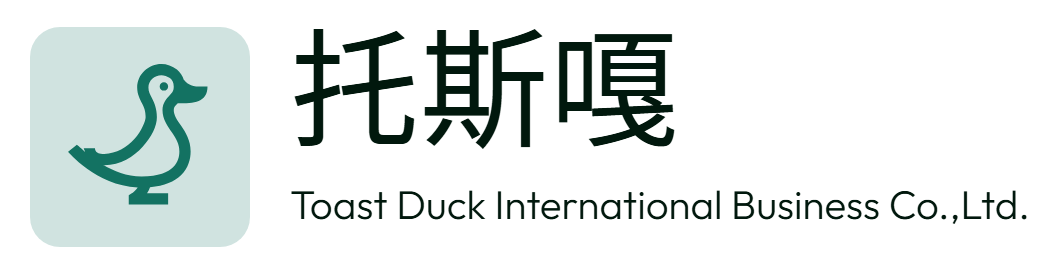
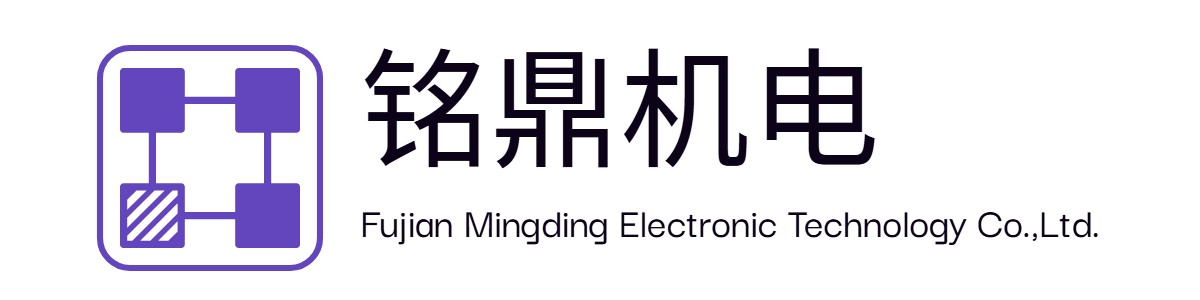
feature: change to mingding co.

diff --git a/src/components/Footer.jsx b/src/components/Footer.jsx
@@ -35,7 +35,7 @@ const Footer = () => {
               <a className="brand mb-6 inline-block" href="/">
                 <img 
                   src="/images/image.png" 
-                  alt="Toast Duck Logo" 
+                  alt="Mingding Logo" 
                   width="176" 
                   height="88"
                   className="max-h-[60px] w-auto brightness-0 invert"
@@ -45,11 +45,11 @@ const Footer = () => {
                   }}
                 />
                 <span className="hidden text-2xl font-bold text-white">
-                  Toast Duck
+                  Ming Ding
                 </span>
               </a>
               <p className="text-slate-300 mb-6 max-w-md leading-relaxed">
-                Toast Duck International Business Co., Ltd. is a professional international trading company 
+                Fujian Mingding Electromechanical Technology Co., Ltd. is a professional international trading company 
                 dedicated to delivering high-quality products and exceptional service to clients worldwide.
               </p>
               <div className="flex space-x-4">
@@ -118,8 +118,8 @@ const Footer = () => {
                   </svg>
                   <div>
                     <p className="text-slate-300 text-sm leading-relaxed">
-                      Room 906, No.6, Banzhong Road,<br />
-                      Fuzhou City, Fujian Province, China
+                      No.17, Fuchun Road, Fu'an City, Fujian
+                      Province, China
                     </p>
                   </div>
                 </div>
@@ -129,10 +129,29 @@ const Footer = () => {
                     <path strokeLinecap="round" strokeLinejoin="round" strokeWidth="2" d="M3 5a2 2 0 012-2h3.28a1 1 0 01.948.684l1.498 4.493a1 1 0 01-.502 1.21l-2.257 1.13a11.042 11.042 0 005.516 5.516l1.13-2.257a1 1 0 011.21-.502l4.493 1.498a1 1 0 01.684.949V19a2 2 0 01-2 2h-1C9.716 21 3 14.284 3 6V5z"/>
                   </svg>
                   <a 
-                    href="tel:+8613459831691"
                     className="text-slate-300 hover:text-white transition-colors duration-300 text-sm"
                   >
-                    (+86) 13459831691
+                    (+86) 13774774580
+                  </a>
+                </div>
+                <div className="flex items-center space-x-3">
+                  <svg className="w-5 h-5 text-blue-400 flex-shrink-0" fill="none" stroke="currentColor" viewBox="0 0 24 24">
+                    <path strokeLinecap="round" strokeLinejoin="round" strokeWidth="2" d="M3 5a2 2 0 012-2h3.28a1 1 0 01.948.684l1.498 4.493a1 1 0 01-.502 1.21l-2.257 1.13a11.042 11.042 0 005.516 5.516l1.13-2.257a1 1 0 011.21-.502l4.493 1.498a1 1 0 01.684.949V19a2 2 0 01-2 2h-1C9.716 21 3 14.284 3 6V5z"/>
+                  </svg>
+                  <a 
+                    className="text-slate-300 hover:text-white transition-colors duration-300 text-sm"
+                  >
+                    (+86) 15059331866
+                  </a>
+                </div>
+                <div className="flex items-center space-x-3">
+                  <svg className="w-5 h-5 text-blue-400 flex-shrink-0" fill="none" stroke="currentColor" viewBox="0 0 24 24">
+                    <path strokeLinecap="round" strokeLinejoin="round" strokeWidth="2" d="M3 5a2 2 0 012-2h3.28a1 1 0 01.948.684l1.498 4.493a1 1 0 01-.502 1.21l-2.257 1.13a11.042 11.042 0 005.516 5.516l1.13-2.257a1 1 0 011.21-.502l4.493 1.498a1 1 0 01.684.949V19a2 2 0 01-2 2h-1C9.716 21 3 14.284 3 6V5z"/>
+                  </svg>
+                  <a 
+                    className="text-slate-300 hover:text-white transition-colors duration-300 text-sm"
+                  >
+                    (+86) 15859511151
                   </a>
                 </div>
                 
@@ -141,10 +160,32 @@ const Footer = () => {
                     <path strokeLinecap="round" strokeLinejoin="round" strokeWidth="2" d="M3 8l7.89 4.26a2 2 0 002.22 0L21 8M5 19h14a2 2 0 002-2V7a2 2 0 00-2-2H5a2 2 0 00-2 2v10a2 2 0 002 2z"/>
                   </svg>
                   <a 
-                    href="mailto:ferrislee2024@163.com"
+                    href="mailto:mcmm20210811@gmail.com"
                     className="text-slate-300 hover:text-white transition-colors duration-300 text-sm"
                   >
-                    ferrislee2024@163.com
+                    mcmm20210811@gmail.com
+                  </a>
+                </div>
+                <div className="flex items-center space-x-3">
+                  <svg className="w-5 h-5 text-blue-400 flex-shrink-0" fill="none" stroke="currentColor" viewBox="0 0 24 24">
+                    <path strokeLinecap="round" strokeLinejoin="round" strokeWidth="2" d="M3 8l7.89 4.26a2 2 0 002.22 0L21 8M5 19h14a2 2 0 002-2V7a2 2 0 00-2-2H5a2 2 0 00-2 2v10a2 2 0 002 2z"/>
+                  </svg>
+                  <a 
+                    href="mailto:cnabbkobe@gmail.com"
+                    className="text-slate-300 hover:text-white transition-colors duration-300 text-sm"
+                  >
+                    cnabbkobe@gmail.com
+                  </a>
+                </div>
+                <div className="flex items-center space-x-3">
+                  <svg className="w-5 h-5 text-blue-400 flex-shrink-0" fill="none" stroke="currentColor" viewBox="0 0 24 24">
+                    <path strokeLinecap="round" strokeLinejoin="round" strokeWidth="2" d="M3 8l7.89 4.26a2 2 0 002.22 0L21 8M5 19h14a2 2 0 002-2V7a2 2 0 00-2-2H5a2 2 0 00-2 2v10a2 2 0 002 2z"/>
+                  </svg>
+                  <a 
+                    href="mailto:736354116@qq.com"
+                    className="text-slate-300 hover:text-white transition-colors duration-300 text-sm"
+                  >
+                    736354116@qq.com
                   </a>
                 </div>
               </div>
@@ -156,7 +197,7 @@ const Footer = () => {
         <div className="border-t border-slate-800 py-6">
           <div className="flex flex-col md:flex-row justify-between items-center space-y-4 md:space-y-0">
             <p className="text-slate-400 text-sm">
-              © {new Date().getFullYear()} Toast Duck International Business Co., Ltd. All rights reserved.
+              © {new Date().getFullYear()} Fujian Mingding Electromechanical Technology Co., Ltd. All rights reserved.
             </p>
             <div className="flex space-x-6">
               {quickLinks.map((link, index) => (

diff --git a/src/components/Contact.jsx b/src/components/Contact.jsx
@@ -101,7 +101,7 @@ const Contact = () => {
                   <dl class="list-terms-inline">
                     <dt>Address</dt>
                     <dd>
-                      Room 906, No.6, Banzhong Road, Fuzhou City, Fujian
+                      No.17, Fuchun Road, Fu'an City, Fujian
                       Province, China
                     </dd>
                   </dl>
@@ -111,7 +111,9 @@ const Contact = () => {
                     <dt>Whatsapp</dt>
                     <dd>
                       <ul class="list-semicolon">
-                        <li><a href="tel:#">(+86) 13459831691</a></li>
+                        <li><a>(+86) 13774774580</a></li>
+                        <li><a>(+86) 15059331866</a></li>
+                        <li><a>(+86) 15859511151</a></li>
                       </ul>
                     </dd>
                   </dl>
@@ -121,7 +123,9 @@ const Contact = () => {
                     <dt>E-mail</dt>
                     <dd>
                       <ul class="list-semicolon">
-                        <li><a href="tel:#">ferrislee2024@163.com</a></li>
+                        <li><a>mcmm20210811@gmail.com</a></li>
+                        <li><a>cnabbkobe@gmail.com</a></li>
+                        <li><a>736354116@qq.com</a></li>
                       </ul>
                     </dd>
                   </dl>
@@ -232,14 +236,14 @@ const Contact = () => {
       <section className="p-0">
         <div className="google-map-container">
           <iframe
-            src="https://www.google.com/maps/embed?pb=!1m14!1m12!1m3!1d2129.717374049382!2d119.32560030219558!3d26.139907931829057!2m3!1f0!2f0!3f0!3m2!1i1024!2i768!4f13.1!5e0!3m2!1szh-CN!2s!4v1752747089758!5m2!1szh-CN!2s"
+            src="https://www.google.com/maps/embed?pb=!1m16!1m12!1m3!1d1255.9572477409522!2d119.63289412518819!3d27.081199802559084!2m3!1f0!2f0!3f0!3m2!1i1024!2i768!4f13.1!2m1!1z56aP5a6J5biCIOmTrem8jg!5e0!3m2!1szh-CN!2shk!4v1757397436482!5m2!1szh-CN!2shk"
             width="100%"
             height="450"
             className="border-0 block"
             allowFullScreen=""
             loading="lazy"
             referrerPolicy="no-referrer-when-downgrade"
-            title="Toast Duck International Business Co., Ltd. Location"
+            title="Fujian Mingding Electromechanical Technology Co., Ltd. Location"
           ></iframe>
         </div>
       </section>

diff --git a/src/components/About.jsx b/src/components/About.jsx
@@ -30,14 +30,14 @@ const About = () => {
           <div className="col-md-9 col-lg-6">
             <h4 className="heading-decorated text-3xl font-bold">About us</h4>
             <p className="mt-4 leading-8">
-              Welcome to Toast Duck International Business Co., Ltd., a professional and reliable
+              Welcome to Mingding Electromechanical Technology Co., Ltd., a professional and reliable
               international trading company dedicated to delivering high-quality
               products and exceptional service to clients around the globe. With a
               strong foundation in global trade and a keen understanding of market
-              trends, Toast Duck has built long-term partnerships across various
+              trends, Mingding has built long-term partnerships across various
               industries. Our commitment to integrity, efficiency, and customer
               satisfaction sets us apart in today's competitive global marketplace.
-              Choose Toast Duck — your trusted partner in international trade.
+              Choose Mingding — your trusted partner in international trade.
             </p>
             <div className="row row-30">
               {features.map((feature, index) => (

diff --git a/src/components/Testimonials.jsx b/src/components/Testimonials.jsx
@@ -20,13 +20,13 @@ const Testimonials = () => {
       image: "/images/testimonials-1-120x120.jpg"
     },
     {
-      text: "Working with Toast Duck has been an exceptional experience. Their professional approach and attention to detail helped us achieve our business goals faster than we expected. Highly recommended!",
+      text: "Working with Mingding has been an exceptional experience. Their professional approach and attention to detail helped us achieve our business goals faster than we expected. Highly recommended!",
       author: "Michael Johnson",
       position: "CEO, Tech Solutions",
       image: "/images/testimonials-2-120x120.jpg"
     },
     {
-      text: "The quality of products and services provided by Toast Duck is outstanding. They have been our trusted partner for over two years, and we couldn't be happier with the results.",
+      text: "The quality of products and services provided by Mingding is outstanding. They have been our trusted partner for over two years, and we couldn't be happier with the results.",
       author: "Sarah Wilson",
       position: "Operations Manager",
       image: "/images/testimonials-3-120x120.jpg"

diff --git a/src/components/Header.jsx b/src/components/Header.jsx
@@ -44,7 +44,7 @@ const Header = () => {
                 <a className="brand-name block" href="/">
                   <img 
                     src="/images/image.png" 
-                    alt="Toast Duck Logo" 
+                    alt="Mingding Logo" 
                     width="176" 
                     height="88"
                     className="max-h-[60px] w-auto scale-[1.5]"
@@ -54,7 +54,7 @@ const Header = () => {
                     }}
                   />
                   <span className="hidden text-2xl font-bold text-gray-800">
-                    Toast Duck
+                    Ming Ding
                   </span>
                 </a>
               </div>
@@ -66,7 +66,7 @@ const Header = () => {
                     Home
                   </a>
                 </li>
-                <li className="flex">
+                <li className="flex hidden">
                   <a href="https://toastduck.com" target="_blank" rel="noopener noreferrer" className="text-black content-center hover:text-sky-700 transition-colors duration-200">
                     Store
                   </a>

diff --git a/src/components/Team.jsx b/src/components/Team.jsx
@@ -1,18 +1,18 @@
 const Team = () => {
   const teamMembers = [
     {
-      image: "/images/avator1.png",
-      name: "Ferris",
+      image: "/images/avator1.jpg",
+      name: "Linda",
       position: "CEO, Founder"
     },
     {
       image: "/images/avator2.png",
-      name: "Linda",
-      position: "CFO"
+      name: "Kobe",
+      position: "Sales Manager"
     },
     {
       image: "/images/avator3.png",
-      name: "Kobe",
+      name: "Kevin",
       position: "Marketing Manager"
     }
   ];

diff --git a/src/components/HeroSlider.jsx b/src/components/HeroSlider.jsx
@@ -59,7 +59,7 @@ const HeroSlider = () => {
                 <div
                   className='text-6xl font-bold tracking-wide'
                 >
-                  Welcome to Toast Duck
+                  Welcome to Mingding
                 </div>
                 <div
                   className="text-width-2 block-centered text-xl mt-8 font-bold tracking-wide"

diff --git a/index.html b/index.html
@@ -2,7 +2,7 @@
 <html class="wide wow-animation" lang="en">
   <head>
     <!-- Site Title-->
-    <title>Fujian Toast Duck International Business Co., Ltd.</title>
+    <title>Fujian Mingding Electromechanical Technology Co., Ltd.</title>
     <meta name="format-detection" content="telephone=no" />
     <meta
       name="viewport"
